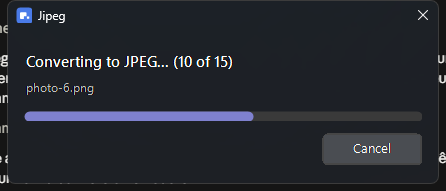
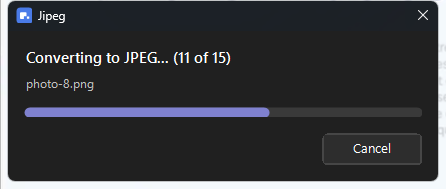
v1.8.0 — exact colours: Mica off by default, and the alignment pass
The grey bars were Mica, and I had championed it, so this reverses that call.

Measured rather than eyeballed: what GDI draws over the extended frame is
composited additively onto the backdrop, so every colour landed lighter than it
was picked. A card set to #2B2B2B measured #4B4B4B, a field set to #383838
measured #585858 - a flat +0x20 taken from whatever Mica had blurred behind the
window, which also means the palette drifted with the wallpaper. With the
backdrop off, the same points measure #2B2B2B and #383838 exactly.

So Mica is off by default. The switch stays, with a line saying what it costs.
The installer follows the setting now instead of turning it on regardless.

Alignment, all found by measuring pixels:
- The footer had the version text and the update button 7 px off the same axis.
- The converter had 18 px of bottom margin against 16 on the sides.
- Focus was ControlPaint's black dotted rectangle, which on a dark surface looks
  like stray pixels rather than focus. It is a thin rounded outline in the
  accent colour now.

diff --git a/README.md b/README.md
@@ -67,7 +67,7 @@ Right-click an image → **Convert to JPEG (Jipeg)**.
 | **JPEG quality** | libjpeg scale. 90 is the default; 78 is light enough for the web, 96 is close to lossless. |
 | **Keep full colour detail (4:4:4)** | Disables chroma subsampling. Worth it for screenshots, text and sharp colour edges; files get larger. Pointless on photographs. |
 | **Theme** | Follow Windows, or force Light or Dark. |
-| **Translucent window background (Mica)** | The Windows 11 Mica material behind the windows. Ignored when the theme is forced to the opposite of the Windows one. |
+| **Translucent window background (Mica)** | The Windows 11 Mica material behind the windows. **Off by default**: the backdrop is composited additively, so every colour lands lighter than it was picked and shifts with the wallpaper — a card set to `#2B2B2B` measures `#4B4B4B` on screen. Prettier, less exact. Ignored when the theme is forced to the opposite of the Windows one. |
 | **Close the window automatically** | Off by default, so the result stays until you dismiss it. |
 | **Install new versions quietly** | Once a day, after a conversion and never during one, Jipeg looks for a newer release and installs it without showing anything. Only from this repository, only a strictly higher version, and only if the archive matches the SHA-256 GitHub publishes for it. Turn it off and nothing is fetched. |
 | **Check for updates** | The settings window also checks when it opens, without blocking. If a newer release exists the button becomes *Open download page*. |
@@ -150,11 +150,19 @@ corners Windows 11 draws itself. What needed doing by hand:
   accessibility keep working. Its background must stay opaque: left transparent, the control's
   own caption shows through underneath the painted one and the text renders twice.
   `NumericUpDown` cannot be darkened at all, which is why quality is a drop-down.
-- **Opaque means painting it yourself.** Over Mica, the background WinForms fills in for a
-  control carries no alpha and the backdrop bleeds through it. A card set to `#2B2B2B`
-  measured `#494B50` on screen. Surfaces are filled with a GDI+ brush, and the labels sitting
-  on them are transparent so the card's own fill shows — otherwise every line of text wears a
-  lighter rectangle.
+- **Mica costs the palette, which is why it is off by default.** What GDI draws over the
+  extended frame is composited *additively* onto the backdrop, so every colour lands lighter
+  than it was picked: a card set to `#2B2B2B` measures `#4B4B4B` on screen, a field set to
+  `#383838` measures `#585858` — a flat `+0x20` taken from whatever Mica blurred behind the
+  window, which means the palette also drifts with the wallpaper. With the backdrop off the
+  same points measure `#2B2B2B` and `#383838` exactly. The setting is still there for anyone
+  who prefers the look.
+- **Surfaces are filled with a GDI+ brush** rather than left to `BackColor`, and the labels on
+  them are transparent so the surface's own fill shows through — otherwise every line of text
+  wears a slightly different rectangle behind it.
+- **Focus is drawn, not borrowed.** `ControlPaint.DrawFocusRectangle` paints a hard black
+  dotted box whatever the theme, which on a dark surface reads as stray pixels. Focus is a thin
+  rounded outline in the accent colour instead.
 - **The drop-down list is a separate system window** of class `ComboLBox`. Windows 11 will
   round it and give it a border, but only once it exists, so it is asked just after the list
   opens.
